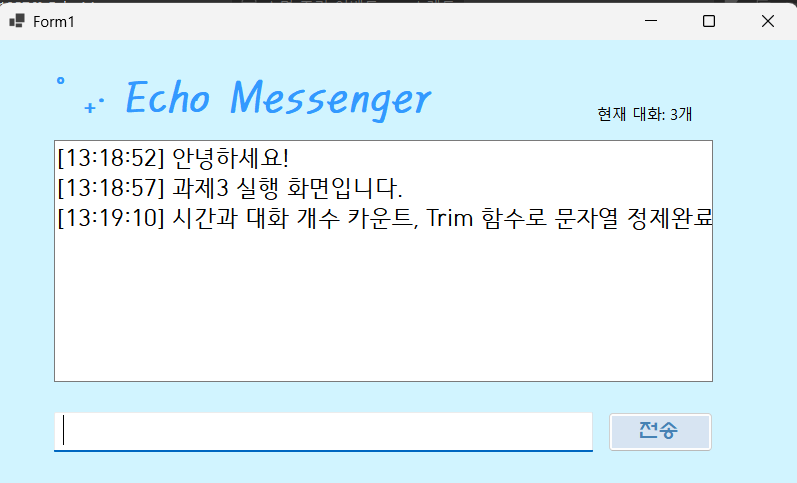
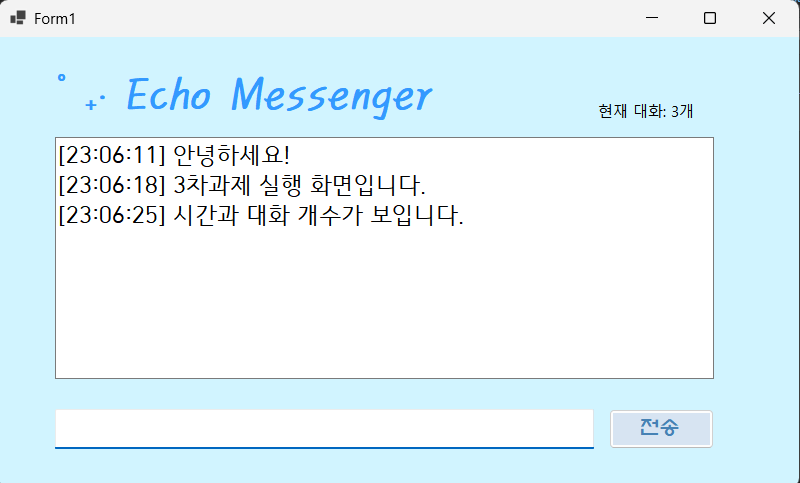
README.md 과제 3 실행과 과제내용 및 구현 내용과 기능설명 추가한 최종 수정 후 커밋함.

diff --git a/README.md b/README.md
@@ -39,11 +39,27 @@
 
 - 과제 내용
  - 과제 1에서 구현한 기능에 추가하여, 사용자가 입력한 메시지를 ListBox에 저장하는 기능을 구현합니다.
-	- 전송 후에 마우스로 입력창을 다시 클릭하지 않아도 되도록 커서를 자동으로 입력창에 둡니다.
-	- 마우스 클릭 대신 키보드의 Enter 키를 눌러도 메시지가 전송되도록 합니다.
+ - 전송 후에 마우스로 입력창을 다시 클릭하지 않아도 되도록 커서를 자동으로 입력창에 둡니다.
+ - 마우스 클릭 대신 키보드의 Enter 키를 눌러도 메시지가 전송되도록 합니다.
 
 - 구현 내용과 기능 설명
   - TextBox의 KeyDown 이벤트를 활용하여 사용자가 Enter 키를 눌렀을 때 메시지가 전송되도록 구현합니다. 
 	-> 이를 통해 사용자는 마우스 클릭 없이도 빠르게 메시지를 입력하고 전송할 수 있습니다.
   - 전송 버튼 클릭 시 TextBox에 입력된 텍스트가 ListBox에 추가되고, TextBox는 초기화되어 다음 메시지를 입력할 준비가 됩니다. 
   - 또한, 커서가 자동으로 TextBox에 위치하여 사용자가 바로 다음 메시지를 입력할 수 있도록 합니다.
+	
+
+## 실행 화면 (과제3)
+- 과제 3 코드의 실행 스크린샷
+
+![과제3 실행화면] (img/과제3 실행.png)
+
+- 과제 내용
+ - 타임스탬프를 추가하였습니다. 메시지 앞에 현재시간을 자동으로 메세지 앞에 결합하여 리스트에 출력합니다.
+ - 현재 리스트에 쌓인 총 메시지 개수를 계산하여 Label에 실시간으로 업데이트합니다.
+ - 사용자가 입력한 메시지의 앞뒤 불필요한 공백을 Trim()함수로 제거하여 저장합니다.
+
+- 구현 내용과 기능 설명
+ - srting을 사용하여 [HH:mm:ss] 시간 정보 구하였습니다.
+ - label2 Text 사용하여 현재 대화 실시간 업데이트 EchoWindow.Items.Count 사용.
+ - Trim 함수를 통해 공백이 발생하는 사용자의 메시지 공백을 제거합니다.
